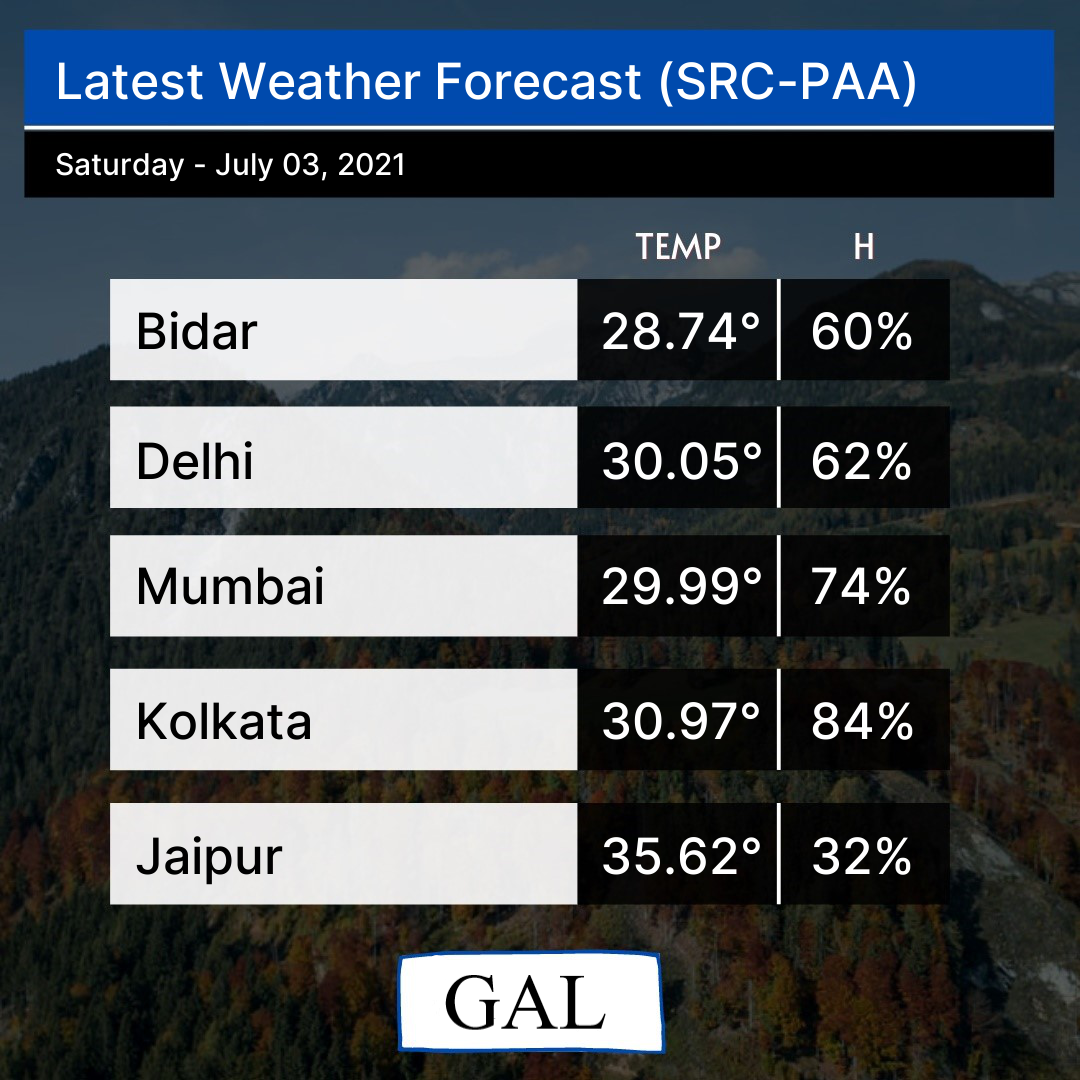
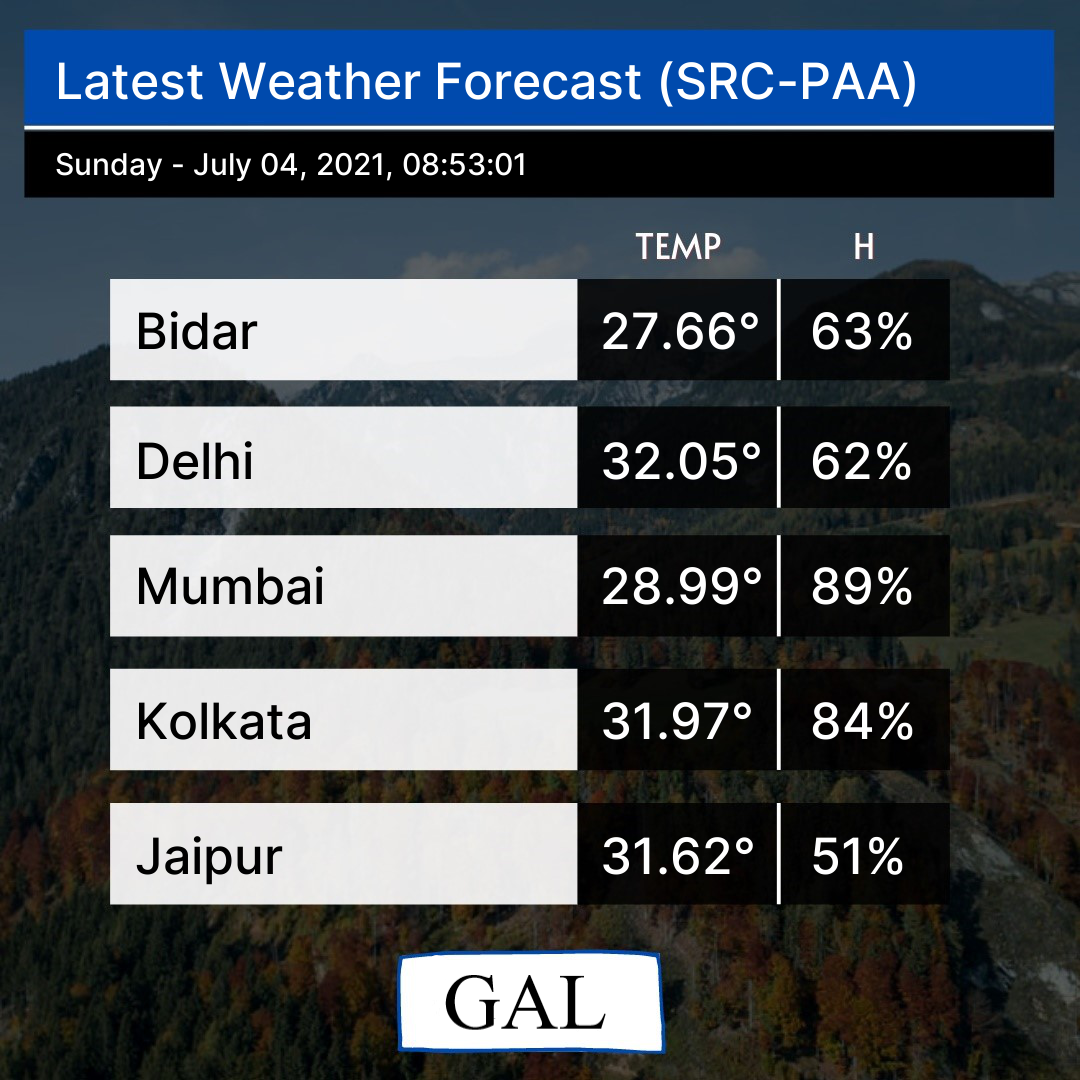
Modified

diff --git a/WeatherBotAutomation.py b/WeatherBotAutomation.py
@@ -3,7 +3,7 @@ import time
 import requests
 import json
 from PIL import Image, ImageFont, ImageDraw
-from datetime import date
+import datetime
 
 consumer_key = 'zrgz8HNXV5Ltyd2hhtQaz0cZn'
 consumer_secret = 'oXZ6lXqjf0MgTuc7dgggVOOWANNFZwnSd9cbh9qJfrsKyEaVDe'
@@ -30,7 +30,8 @@ def weather():
     draw.text((x, y), content, color, font=font)
 
     font = ImageFont.truetype('Inter.ttf', size=30)
-    content = date.today().strftime("%A - %B %d, %Y")
+    x = datetime.datetime.now()
+    content = x.strftime("%A - %B %d, %Y, %X")
     color = 'rgb(255, 255, 255)'
     (x, y) = (55,145)
     draw.text((x, y), content, color, font=font)
@@ -62,7 +63,7 @@ def weather():
 
     image.save("new.png")
 
-    tweet_text = "Weather Report After Every 4hrs (Automation)"
+    tweet_text = "Weather Report After Every 4hours (Automation)"
     image_path = "new.png"
     #Generate text tweet with media (image)
     status = api.update_with_media(image_path, tweet_text)
